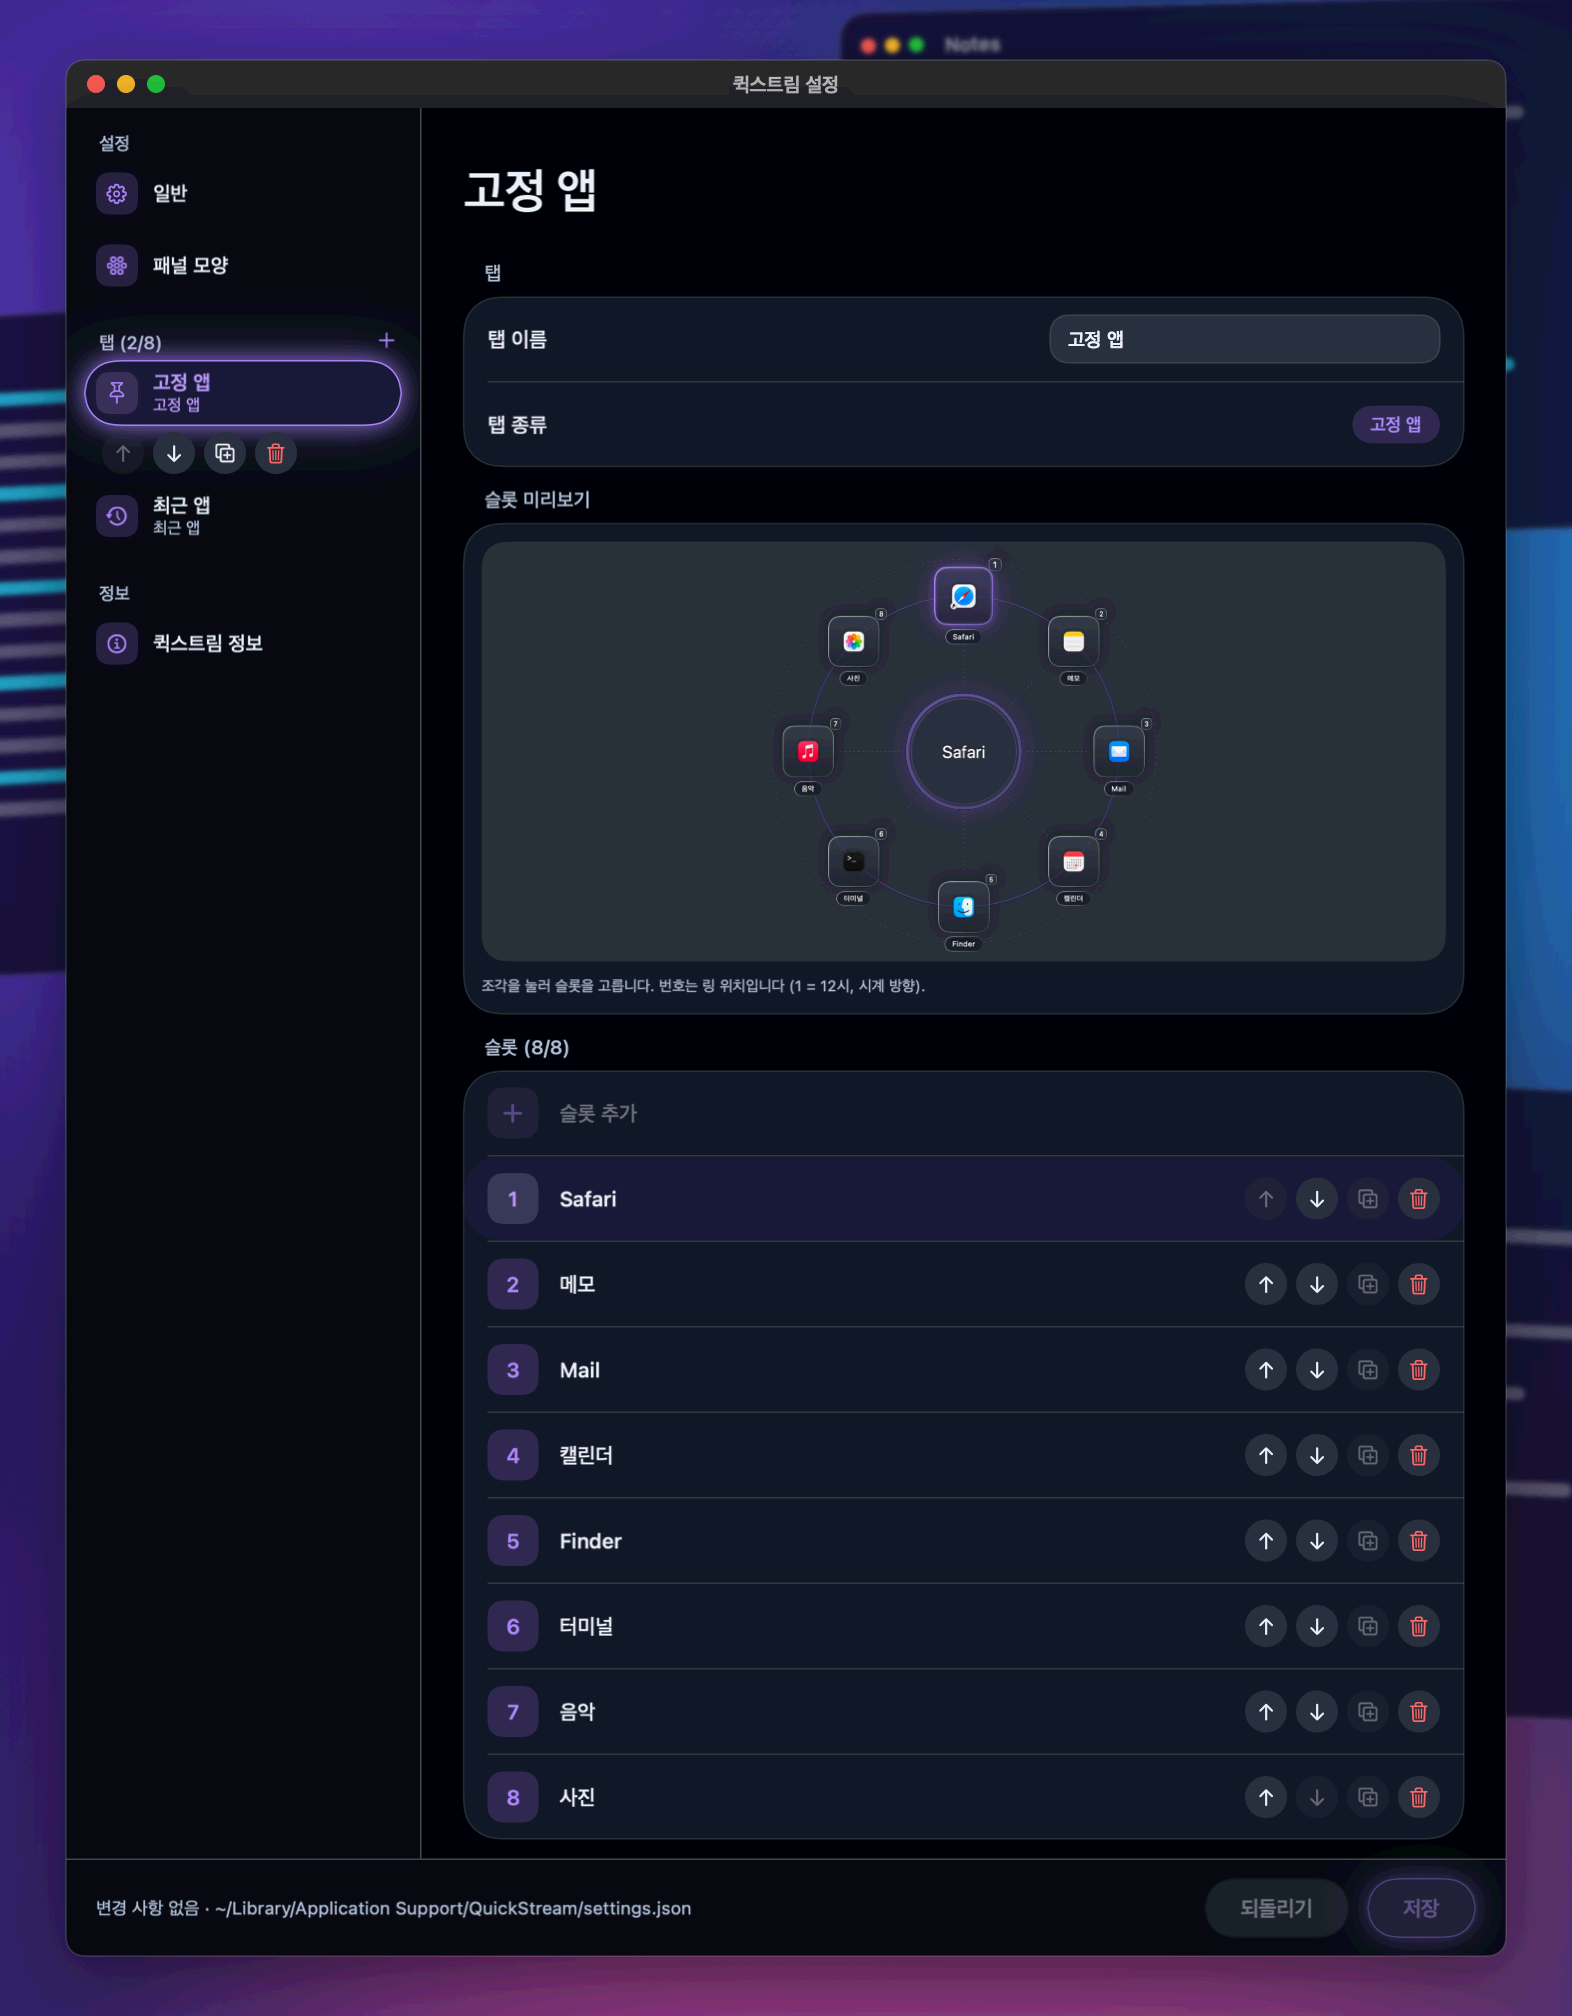
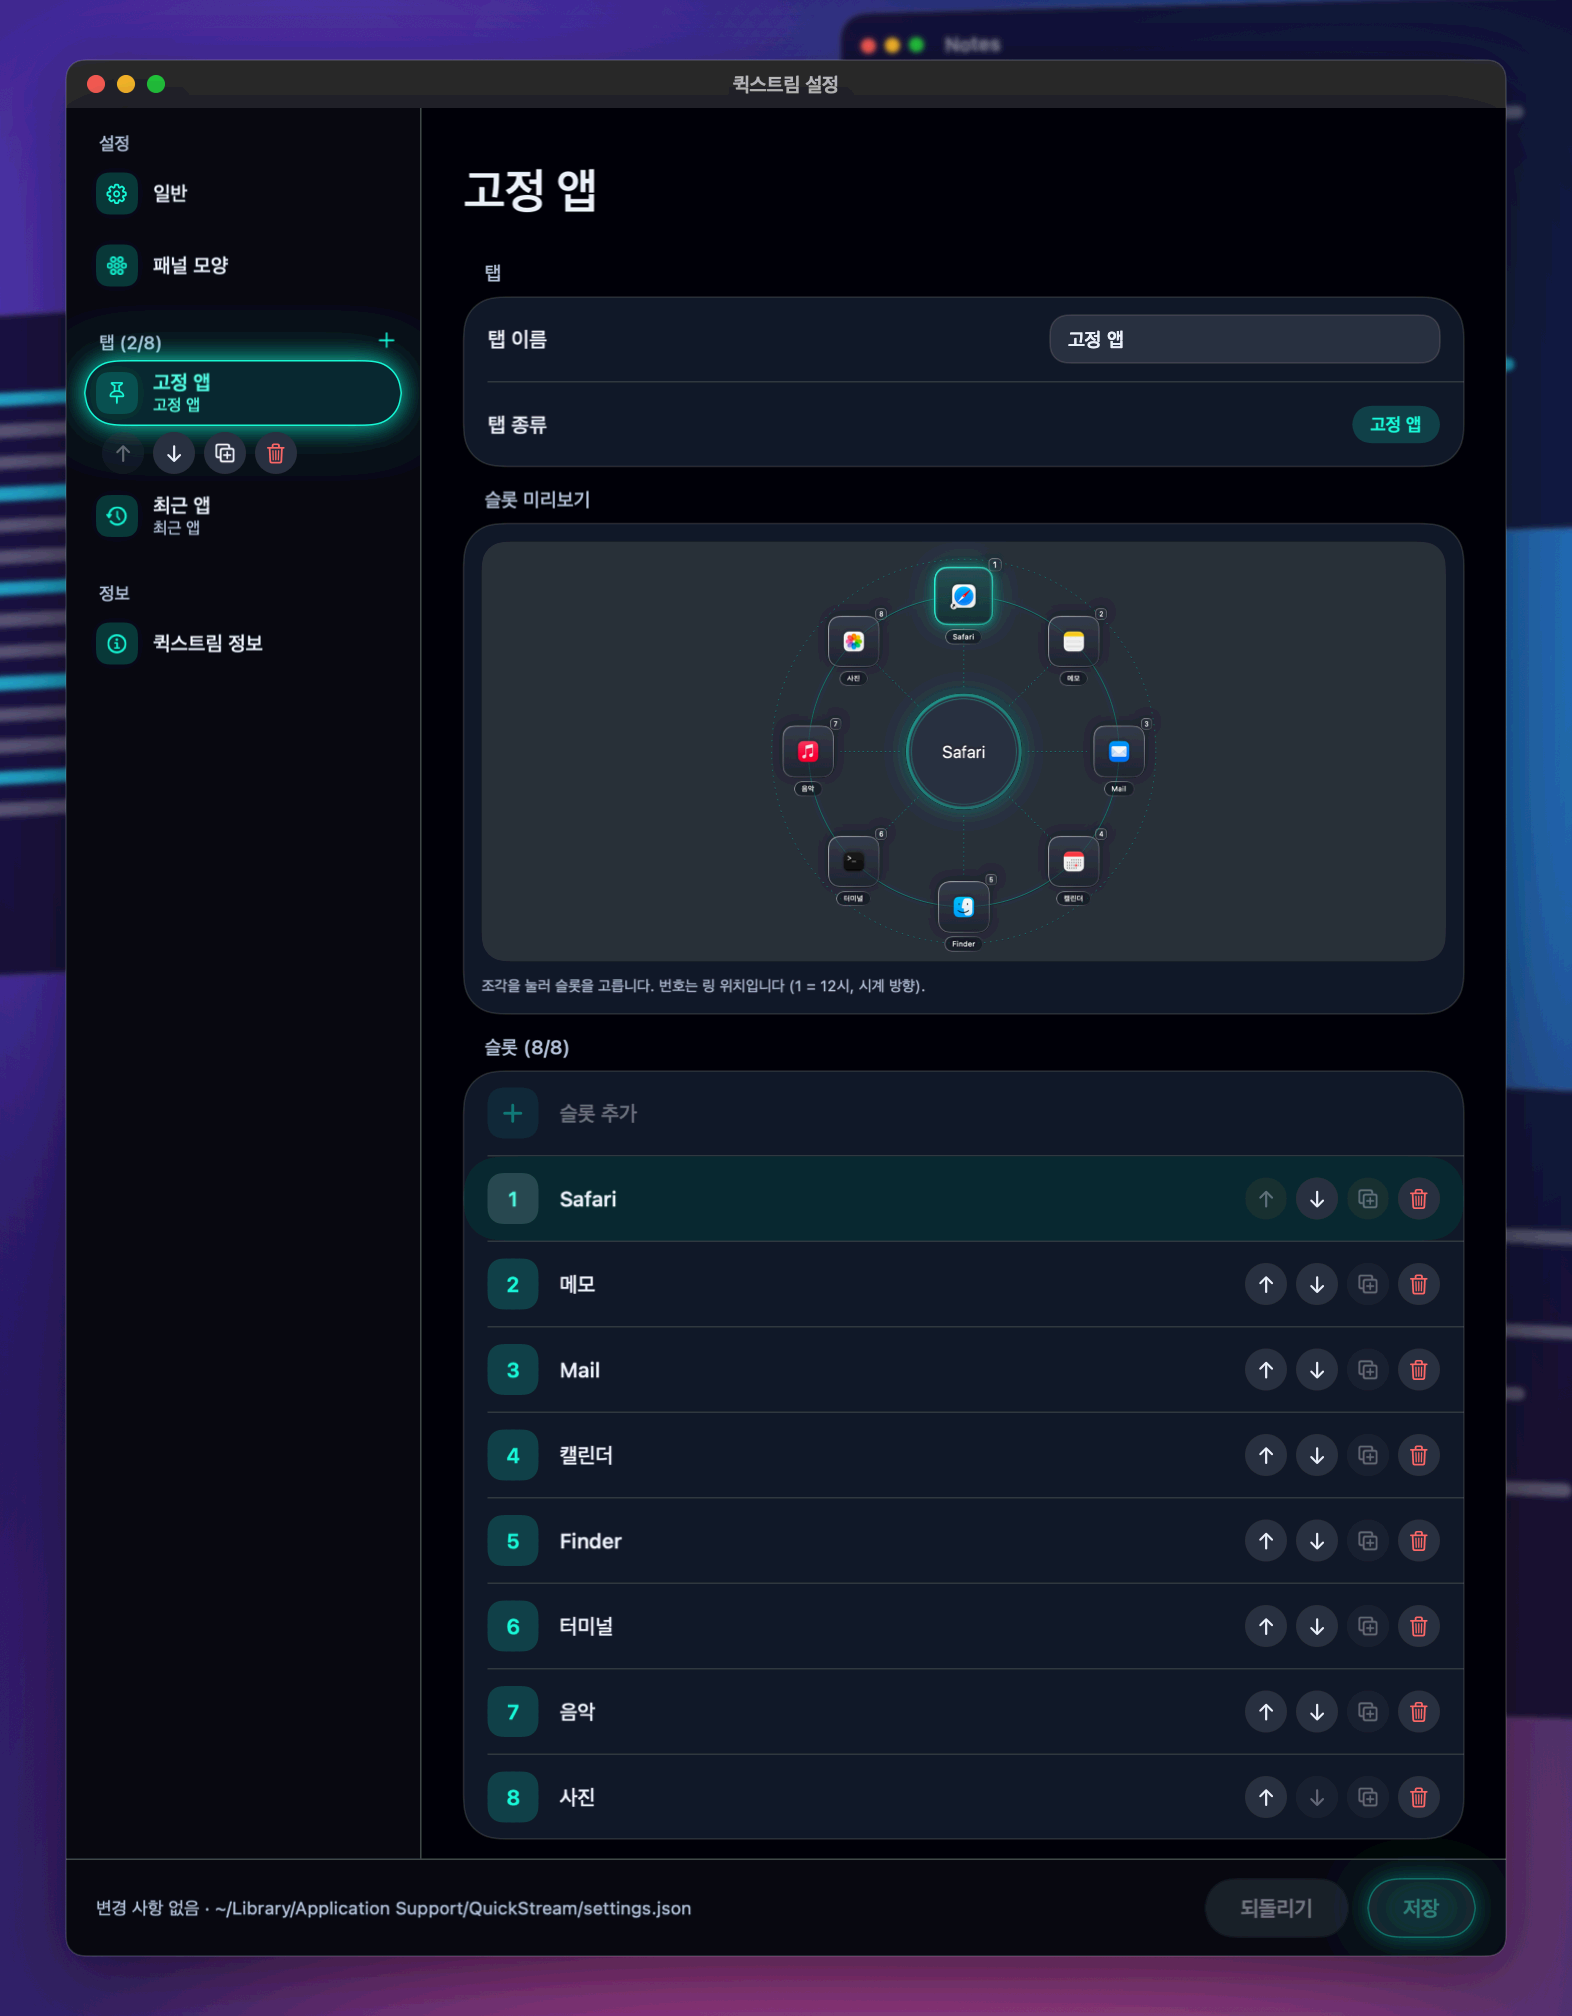
default focus color: mint (#19F9D8)

diff --git a/tests/swift/CoreTests.swift b/tests/swift/CoreTests.swift
@@ -1009,7 +1009,7 @@ private func testThemeSizesAndBodyDecode() {
         check(loaded != nil, "잘못된 본체/스타일/색(\(bad))에도 파일을 읽는다")
         checkEqual(loaded?.overlay.bodyTheme, OverlaySettings().bodyTheme, "bodyTheme 오류 → 기본(다크 글라스)(\(bad))")
         checkEqual(loaded?.overlay.focusStyle, .neon, "focusStyle 오류 → 네온(기본)(\(bad))")
-        checkEqual(loaded?.overlay.focusHex, FocusColors.defaultHex, "focusHex 오류 → 기본 라벤더(\(bad))")
+        checkEqual(loaded?.overlay.focusHex, FocusColors.defaultHex, "focusHex 오류 → 기본 민트(\(bad))")
         checkEqual(loaded?.overlay.showTileLabels, true, "showTileLabels 오류 → true(\(bad))")
         checkEqual(loaded?.shortcut, "Alt+W", "오류에도 shortcut 유지(\(bad))")
         checkEqual(loaded?.tabs.count, 1, "오류에도 tabs 유지(\(bad))")
@@ -1038,7 +1038,7 @@ private func testThemeSizesAndBodyDecode() {
     checkEqual([defaults?.bodyTheme == .darkGlass, defaults?.focusStyle == .neon, defaults?.focusHex == FocusColors.defaultHex], [true, true, true], "키 없으면 기본값")
     // 새 기본값은 선언부와 디코드 폴백이 항상 같다: 키가 전혀 없는 문서 = 기본 생성자, 그리고 값 자체도 고정한다
     checkEqual(defaults, OverlaySettings(), "키 없는 overlay 는 OverlaySettings() 와 같다")
-    checkEqual(FocusColors.defaultHex, "#A277FF", "기본 포커스 색은 라벤더")
+    checkEqual(FocusColors.defaultHex, "#19F9D8", "기본 포커스 색은 민트")
     let d = OverlaySettings()
     checkEqual([d.alpha, Double(d.radius)], [0.4, 28], "기본 투명도 0.4 · 모서리 28")
     checkEqual(d.theme, .orbit, "기본 테마는 오비트")

diff --git a/tests/swift/OverlayTests.swift b/tests/swift/OverlayTests.swift
@@ -1049,7 +1049,7 @@ func runOverlayTests() {
               && !style.showNumbers && !style.showTileLabels && style.solidBacking, "미리보기 스타일이 본체·포커스·이름 위치·번호·라벨·바닥판을 읽는다")
         check(style.colors == PaletteColors.make(body: .darkGlass, style: .neon, hex: "#19F9D8", solid: true), "미리보기 합성 색은 오버레이와 같은 함수")
         let defaultStyle = PiePreviewStyle(OverlaySettings())
-        check(defaultStyle.colors == PaletteColors.make(body: .darkGlass, style: .neon, hex: "#A277FF", solid: true), "기본 미리보기 색은 다크 글라스 + 네온 라벤더(바닥판 켬)")
+        check(defaultStyle.colors == PaletteColors.make(body: .darkGlass, style: .neon, hex: "#19F9D8", solid: true), "기본 미리보기 색은 다크 글라스 + 네온 민트(바닥판 켬)")
         // 크기는 테마별로 각자: 미리보기는 현재 테마의 값을 읽는다
         var sizes = OverlaySettings()
         sizes.pieSizes = ThemeSizes(ring: 200, center: 80, border: 5)

diff --git a/tools/screenshots/main.swift b/tools/screenshots/main.swift
@@ -446,7 +446,7 @@ func runAll() {
     }
     func orbit(_ edit: (inout OverlaySettings) -> Void = { _ in }) -> OverlaySettings { scene(.orbit, edit) }
     func pie(_ edit: (inout OverlaySettings) -> Void = { _ in }) -> OverlaySettings { scene(.pie, edit) }
-    // 앱 기본 모양(오비트 · 다크 글라스 · 네온 라벤더 · 투명도 0.4 …)에서 테마만 고른다
+    // 앱 기본 모양(오비트 · 다크 글라스 · 네온 민트 · 투명도 0.4 …)에서 테마만 고른다
     func appDefault(_ theme: OverlayTheme) -> OverlaySettings { var o = OverlaySettings(); o.theme = theme; return o }
 
     // 테마 비교: 같은 본체·같은 배경, 테마만 다르다

diff --git a/Sources/Models.swift b/Sources/Models.swift
@@ -227,8 +227,8 @@ struct FocusPreset: Equatable {
 
 /// 포커스 색: 팔레트(프리셋)를 제공하고, 사용자가 임의의 색(`#RRGGBB`)을 직접 골라 쓸 수도 있다.
 enum FocusColors {
-    /// 기본 포커스 색(라벤더 프리셋)
-    static let defaultHex = "#A277FF"
+    /// 기본 포커스 색(민트 프리셋)
+    static let defaultHex = "#19F9D8"
 
     /// 널리 쓰는 에디터 팔레트(TablePeek 의 테마 목록 참고)의 강조색을 이름 붙여 모았다.
     static let presets: [FocusPreset] = [

diff --git a/CHANGELOG.md b/CHANGELOG.md
@@ -9,8 +9,8 @@
 - 네이티브 Swift 로 다시 만든 첫 릴리스. Electron 판과 같은 설정 파일(`settings.json`)을 그대로 읽습니다.
 - 메뉴바에 상주하며 전역 단축키(기본 ⌥Q)로 방사형 8조각 오버레이를 엽니다. 선택한 칸은 포커스 색으로 강조하고, 칸 가장자리에 1~8 단축키 숫자를 보여 주며, 방향키·숫자·Tab·Enter·Esc 로 조작합니다. 오버레이 창은 디스플레이 전체를 덮어 마우스를 화면 어디서든 방향으로 고를 수 있고, 링의 조각이나 링 밖(현재 선택된 조각)을 클릭하면 실행하며 가운데 원을 클릭하면 닫습니다. 링·가운데 원 크기와 가운데 원 테두리 굵기는 설정에서 조절합니다. 탭 표시는 화면에 없고 Tab/[ ] 로 전환합니다.
 - 오버레이 테마 두 가지: 부채꼴 `pie` 와 유리 타일 궤도 `orbit`(기본). 조작은 같고 그리는 방식만 다릅니다. 테두리는 빛이 닿는 쪽만 얇게 하얀 글라스 헤어라인입니다.
-- 색: **본체 색 3종**(다크 그레이 / 다크 글라스(기본) / 클리어 글라스)과 **포커스 스타일 2종**(플랫 / 네온(기본)) × **색**(프리셋 14개 + 임의 `#RRGGBB`, 기본 라벤더 `#A277FF`)으로 나눴습니다. 다크 글라스는 이제 바탕화면이 실제로 비치고, 클리어 글라스는 바탕화면이 비치는 투명한 유리에 **틴트 색**(프리셋 8개 + 임의 `#RRGGBB`)을 입힙니다. 본체는 선택 색을 포함하지 않으며, 선택 면 위 글자는 모든 색에서 대비 4.5 이상이 되도록 알고리즘으로 정합니다. 네온은 채우지 않고 옅은 강조색 면 + 가는 테두리 + 바깥·안쪽 글로우로 빛납니다. 앱 박스·중앙 원 뒤의 불투명 바닥판(기본 켬)이 바탕화면이 비치는 것을 막되, 글라스 본체는 바닥판을 쓰지 않습니다(설정의 해당 토글은 글라스 본체에서 비활성이며 값은 보존). 중앙 원에 포커스 색의 은은한 글로우가 생겼습니다. orbit 라벨은 항상 타일 아래이며, 허용되는 모든 크기 조합에서 겹치지 않게 타일 크기를 자동 조정합니다. pie·orbit 크기는 각자 값을 가집니다. 이름 글꼴은 더 얇고 가볍게 바꿨습니다. pie 는 앱 이름 위치(위·가운데 원(기본)·숨김)와 1~8 숫자 표시 여부를 고를 수 있고, orbit 의 중앙에는 선택된 이름만 보입니다.
-- 모양 기본값: 오비트 · 다크 글라스 · 네온 라벤더 · 투명도 0.4 · 모서리 28 · 오비트 크기 258/78/4(파이 250/112/4) · 중앙 이름 굵기 보통. 투명도 0.4 는 허용 범위의 가장 투명한 값이라, 아주 밝은 바탕화면 위에서는 글라스의 흰 글자 대비가 4.5 미만으로 떨어질 수 있습니다(어두운 바탕에서는 4.5 이상). 설정 파일에서 키가 없거나 값이 잘못된 항목은 이 기본값으로 읽습니다.
+- 색: **본체 색 3종**(다크 그레이 / 다크 글라스(기본) / 클리어 글라스)과 **포커스 스타일 2종**(플랫 / 네온(기본)) × **색**(프리셋 14개 + 임의 `#RRGGBB`, 기본 민트 `#19F9D8`)으로 나눴습니다. 다크 글라스는 이제 바탕화면이 실제로 비치고, 클리어 글라스는 바탕화면이 비치는 투명한 유리에 **틴트 색**(프리셋 8개 + 임의 `#RRGGBB`)을 입힙니다. 본체는 선택 색을 포함하지 않으며, 선택 면 위 글자는 모든 색에서 대비 4.5 이상이 되도록 알고리즘으로 정합니다. 네온은 채우지 않고 옅은 강조색 면 + 가는 테두리 + 바깥·안쪽 글로우로 빛납니다. 앱 박스·중앙 원 뒤의 불투명 바닥판(기본 켬)이 바탕화면이 비치는 것을 막되, 글라스 본체는 바닥판을 쓰지 않습니다(설정의 해당 토글은 글라스 본체에서 비활성이며 값은 보존). 중앙 원에 포커스 색의 은은한 글로우가 생겼습니다. orbit 라벨은 항상 타일 아래이며, 허용되는 모든 크기 조합에서 겹치지 않게 타일 크기를 자동 조정합니다. pie·orbit 크기는 각자 값을 가집니다. 이름 글꼴은 더 얇고 가볍게 바꿨습니다. pie 는 앱 이름 위치(위·가운데 원(기본)·숨김)와 1~8 숫자 표시 여부를 고를 수 있고, orbit 의 중앙에는 선택된 이름만 보입니다.
+- 모양 기본값: 오비트 · 다크 글라스 · 네온 민트 · 투명도 0.4 · 모서리 28 · 오비트 크기 258/78/4(파이 250/112/4) · 중앙 이름 굵기 보통. 투명도 0.4 는 허용 범위의 가장 투명한 값이라, 아주 밝은 바탕화면 위에서는 글라스의 흰 글자 대비가 4.5 미만으로 떨어질 수 있습니다(어두운 바탕에서는 4.5 이상). 설정 파일에서 키가 없거나 값이 잘못된 항목은 이 기본값으로 읽습니다.
 - 중앙 원 이름의 글자 굵기(얇게~더 굵게)와 크기(자동 또는 10~32pt)를 '패널 모양 › 표시'에서 고를 수 있습니다. 큰 글자는 원 밖으로 나가지 않게 자동으로 상한이 걸립니다. 선택이 바뀔 때마다 중앙 원이 포커스 색으로 한 번 은은하게 반짝이며(동작 줄이기에서는 생략), 네온을 고르면 설정 창도 같은 포커스 색의 네온 룩(옅은 면·헤어라인·글로우)이 됩니다. '색상 › 포커스 스타일'의 '포커스 불빛' 토글(기본 켬)을 끄면 오버레이·미리보기·설정 창의 번짐 효과만 사라지고 선택 구분은 면 틴트와 테두리선으로 유지됩니다. 미리보기는 더 크게 보이고, 설정 창은 시스템 확대 연출 없이 담백하게 열립니다. 저장하지 않은 변경이 있을 때 ⌘Q·종료 메뉴도 적용/닫기/취소를 묻습니다.
 - 탭: 고정 앱, 최근 앱, 사용자 정의 탭. 슬롯 동작은 앱 실행/전환, URL 열기, 클립보드 복사, 매크로입니다.
 - 설정 창: 단축키, 로그인 시 자동 시작, 패널 투명도·모서리·바깥 크기·중앙 원 크기, 탭·슬롯 편집. 저장에 성공하면 창이 닫힙니다.
